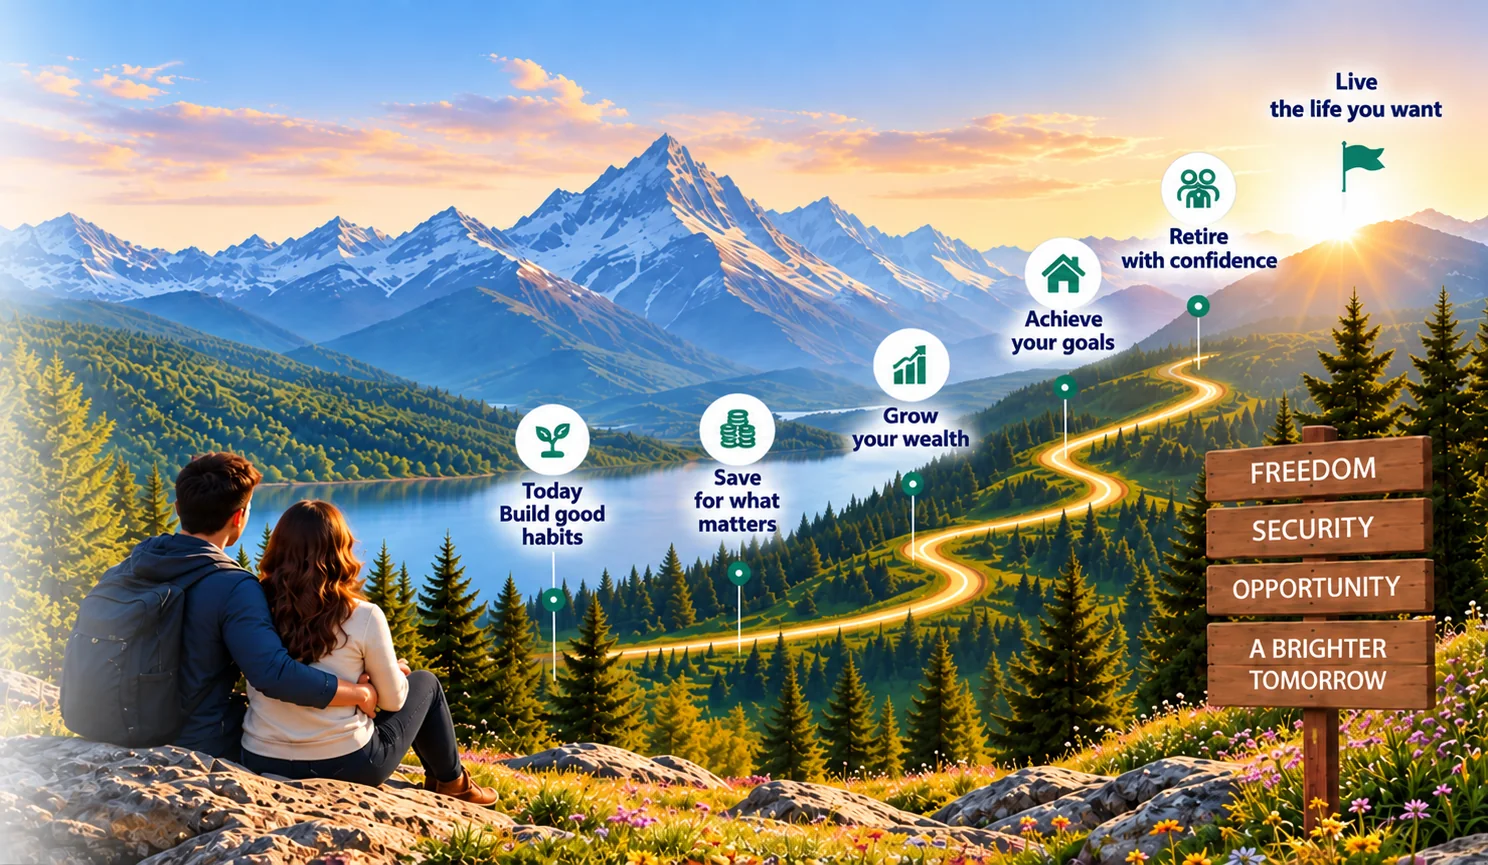
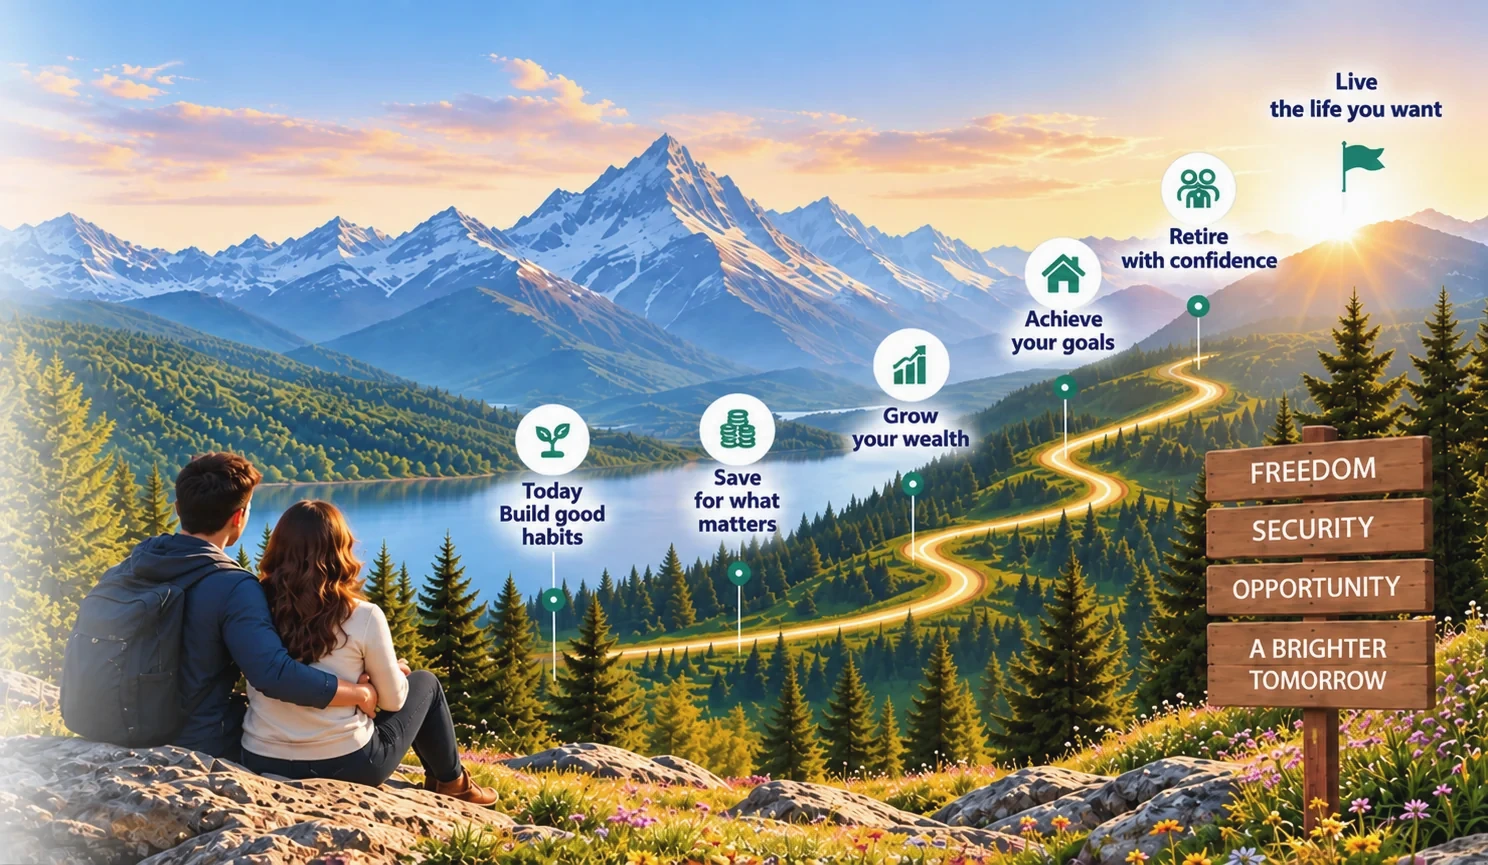
fix: soften approved homepage hero artwork

diff --git a/index.html b/index.html
@@ -144,9 +144,9 @@
     <section class="hero" id="plan">
       <div class="hero-visual" aria-hidden="true">
         <picture>
-          <source media="(max-width: 980px)" srcset="carrowmont-hero-mobile.webp?v=20260927-hero-asset2">
-          <source media="(max-width: 1649px)" srcset="carrowmont-hero-laptop.webp?v=20260927-hero-asset2">
-          <img src="carrowmont-hero.webp?v=20260927-hero-asset2" alt="Illustration of a financial planning journey from saving and investing to achieving goals and retirement.">
+          <source media="(max-width: 980px)" srcset="carrowmont-hero-mobile.webp?v=20260927-hero-asset3">
+          <source media="(max-width: 1649px)" srcset="carrowmont-hero-laptop.webp?v=20260927-hero-asset3">
+          <img src="carrowmont-hero.webp?v=20260927-hero-asset3" alt="Illustration of a financial planning journey from saving and investing to achieving goals and retirement.">
         </picture>
       </div>
       <p class="sr-only">The hero illustration represents a financial journey from building good habits and saving, through growing wealth and achieving goals, toward retirement and a brighter tomorrow.</p>
